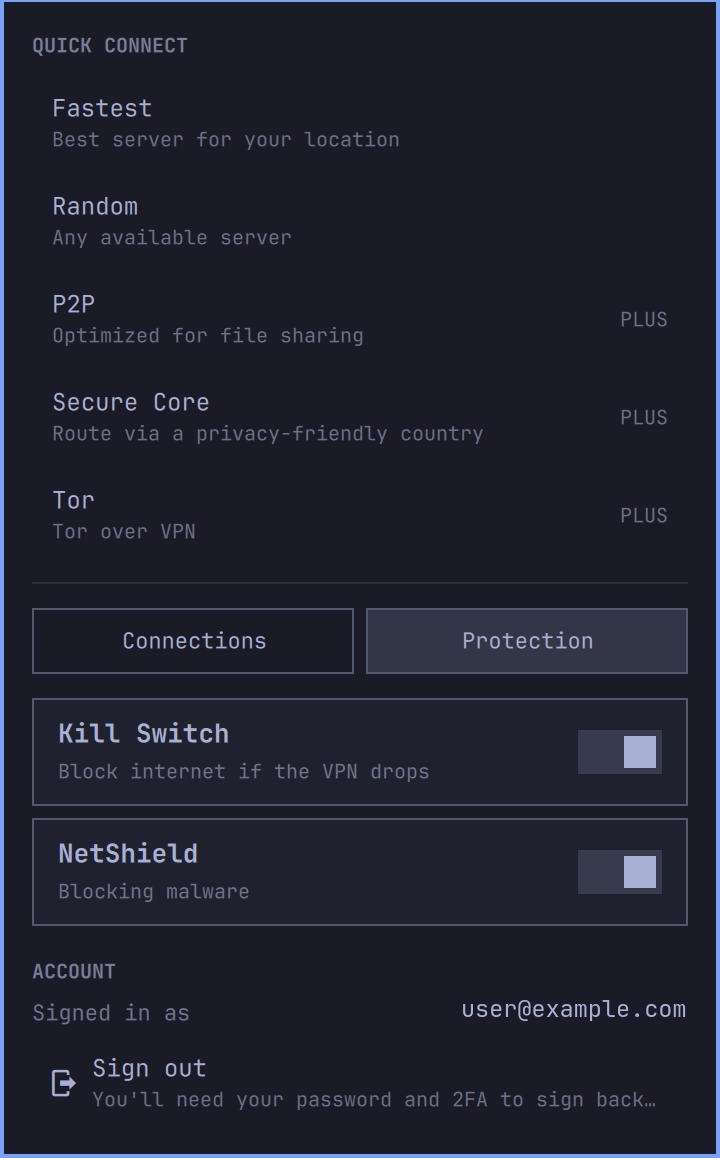
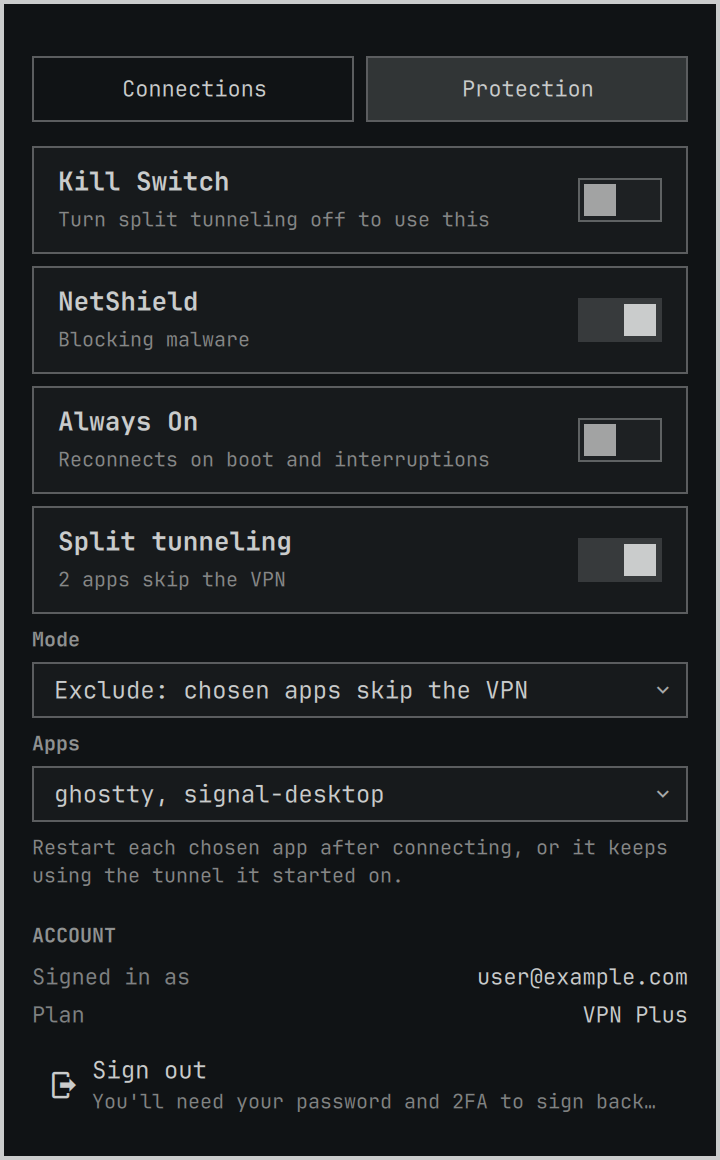
README: a contents section and a chapter on how the protections work
The top of the file is untouched. Below it:

- A Contents section after the pitch.
- "How to use it" keeps the tour of the panel, minus the Protection
  write-up that had grown into a wall of bullets, and the keyboard help
  is now one table in one place instead of two paragraphs.
- New chapter, "How the protections work": who owns each switch and
  where it is saved, one section per switch, why the Kill Switch and
  split tunneling can't both be on and what the panel does about it,
  what changing the Kill Switch while connected actually does, and a
  short "which setup do I want" table.
- Stale text gone: "settings still to come (split tunneling)", "saved
  profiles when they land".
- docs/protection.png retaken with all four switches, the Mode and Apps
  rows and the caption; docs/kill-switch-dialog.png is new. Both from
  the test harness, so the account shown is user@example.com.

diff --git a/README.md b/README.md
@@ -42,6 +42,20 @@ into the CLI's own prompt, and Proton's client owns the session from there.
 
 <img src="docs/panel.png" width="360" alt="The OmaProton VPN panel: world map, connection details, live traffic, quick connect">
 
+## Contents
+
+- [New to Proton?](#new-to-proton)
+- [What you need](#what-you-need)
+- [Install](#install), [Update](#update), [Remove](#remove)
+- [How to use it](#how-to-use-it): the bar icon, the map, quick connect,
+  countries and cities, traffic, [keyboard](#keyboard)
+- [How the protections work](#how-the-protections-work): Kill Switch,
+  NetShield, Always On, split tunneling, and
+  [why the first and last can't both be on](#why-the-kill-switch-and-split-tunneling-cant-both-be-on)
+- [Settings](#settings)
+- [Security and privacy](#security-and-privacy)
+- [Notes](#notes), [Credits](#credits), [License](#license)
+
 ## New to Proton?
 
 You don't need to be a Proton customer to use this. Proton VPN has a **free
@@ -131,14 +145,10 @@ protected; dimmed means not.
 | Action | What it does |
 | --- | --- |
 | Left-click | Open the panel |
-| Right-click | Toggle, connect to the fastest server, or disconnect |
+| Right-click | Toggle: connect to the fastest server, or disconnect |
 | Middle-click | Force a status refresh |
 
-The panel is keyboard-driven too: arrow keys move through every section, `Enter`
-activates, `→` opens a country's city list, `←` backs out, `Esc` backs out of a
-city list or closes the panel. `/` jumps to the country filter. There are no
-single-letter shortcuts on purpose, a stray keystroke should never change your
-connection.
+The panel is fully keyboard-driven too; see [Keyboard](#keyboard).
 
 ### The map
 
@@ -183,115 +193,13 @@ Rows marked **PLUS** need a paid plan. On a free plan they fail with a clear
 ### Two tabs: Connections and Protection
 
 Under Quick Connect sit two tabs, in the same pill style as Omarchy's network
-panel. **Connections** holds everywhere you can go, recent places, the
-country and city lists, and saved profiles when they land. **Protection**
-holds everything about *how* you're protected, the Kill Switch, NetShield,
-Always On, and the settings still to come (split tunneling). The tab you
-pick stays until you close the panel.
+panel. **Connections** holds everywhere you can go: recent places, and the
+country and city lists. **Protection** holds everything about *how* you're
+protected: the Kill Switch, NetShield, Always On, split tunneling, and your
+account. The tab you pick stays until you close the panel.
 
-### Protection
-
-<img src="docs/protection.png" width="360" alt="The Protection tab: Kill Switch and NetShield switches, account, and sign out">
-
-Two switches saved to Proton's own settings:
-
-- **Kill Switch**: if the VPN drops, your internet is blocked until it's back.
-  Without this, a dropped tunnel silently falls back to your plain connection
-  and all you'd see is the icon dimming. The CLI ships with it **off**: which is
-  why the panel offers to turn it on the first time you sign in.
-
-  The Kill Switch and split tunneling can't both be on, because Proton ignores
-  split tunneling whenever the Kill Switch is on. Each row locks the other and
-  says which one to turn off, so you never have to know the rule.
-
-  Proton won't change this setting while a tunnel is up, so if you flip it
-  while connected the widget drops the tunnel, makes the change, and puts you
-  back on the same server. It asks first, in a dialog, because your traffic
-  isn't protected until the tunnel is back and that's your call to make, not
-  something to be told about afterwards. Cancel is preselected. Disconnected
-  there's nothing to interrupt, so it just changes. That takes as long as a normal connect, and the row
-  says "Turning on…" the whole way through. Always On is held off in the
-  middle, otherwise it would reconnect into the gap and the change would fail.
-  If anything goes wrong, you end up back on the VPN with the setting
-  unchanged, never stranded off it.
-- **NetShield**: blocks malware, ads, and trackers at the DNS level. On a free
-  plan Proton only allows malware blocking; the widget steps down to that
-  automatically.
-
-- **Split tunneling**: pick apps that skip the VPN, or flip it round so only
-  the apps you pick use it. See below, it has more rules attached than the
-  other two.
-
-And one saved by the widget itself, because the CLI has no setting for it:
-
-- **Always On**: whenever Proton isn't connected, connect it. That covers
-  booting, logging in, joining a café Wi-Fi, and a tunnel that drops on its own,
-  they're all just moments when you aren't protected and should be. It's
-  checked on the same few-second poll that drives the bar icon, so there's
-  nothing extra running. **Off by default.**
-
-  It reconnects to the top of your **Recent** list, which is the server you
-  were last actually on. If that server is full or gone, the attempt fails
-  once and the next one falls back to Fastest, so it can't get stuck retrying
-  a server that isn't coming back. With nothing in Recent yet it just uses
-  Fastest. Never a Plus-only target, so a free account isn't sent somewhere
-  it can't go. A connect that fails waits 30 seconds before trying again, so
-  a dead network, or a café portal you haven't signed into yet, doesn't get
-  hammered.
-
-  Two things worth knowing. It never fires while you're signed out, and it
-  will never open a sign-in terminal on its own. And while it's on, the
-  **Disconnect** button won't keep you disconnected, you'll be reconnected
-  within a few seconds; switch Always On off if you want to stay off.
-
-#### Split tunneling
-
-Turn it on and two more rows appear: **Mode**, and the **Apps** list.
-
-- **Exclude** (the default) sends the apps you pick out through your normal
-  connection, everything else stays on the VPN. Good for a bank that blocks
-  VPN IPs, or a device on your own network.
-- **Include** is the mirror image: only the apps you pick go through the VPN
-  and everything else uses your normal connection.
-
-The Apps list is every desktop app on the machine that the widget can point at
-a real program on disk. Search it, tick what you want, untick to remove.
-
-Four things to know, all of them Proton's behaviour rather than the widget's:
-
-- **It needs the Kill Switch off.** Proton skips split tunneling entirely while
-  the Kill Switch is on, so the row says so and stays locked until you turn the
-  Kill Switch off. The switch shows off while that's true, because nothing is
-  being split, and it stays off when you turn the Kill Switch back off. Your
-  app lists are kept either way, so turning it back on is one click. Neither
-  switch ever turns itself on. Changing the Kill Switch needs you disconnected first, so
-  the order is: disconnect, Kill Switch off, set up split tunneling, connect.
-  It's a real trade, a tunnel with holes in it can't also promise nothing
-  leaks when it drops.
-- **Restart your apps after connecting.** Proton tags an app's connections as
-  they're made, so anything already running when the tunnel came up keeps using
-  it until you restart it. Proton's own app tells you the same thing.
-- **Apps only, no IP ranges.** Proton's settings file has a field for IP ranges
-  but nothing on Linux reads it yet, so the widget doesn't offer one rather
-  than write a setting that does nothing.
-- **IPv4 only.** Proton tags IPv4 connections and nothing else, so an app you
-  excluded still uses the VPN for anything it sends over IPv6, and in Include
-  mode an app you left out still uses the VPN over IPv6. If you need an
-  exclusion to be absolute, `protonvpn config set ipv6 off` stops the tunnel
-  carrying IPv6 at all and apps fall back to IPv4, where it works. When you
-  test this, check with `curl -4`, otherwise you may be looking at a path
-  split tunneling never touches.
-- **Flatpaks and Snaps aren't listed.** They all launch through one shared
-  runner, so picking one would pick all of them. Same for anything that
-  launches through a terminal chooser or a web-app handler.
-
-Below the switches, **Account** shows who's signed in and the plan, with a
-**Sign out** row, it asks for a second click within five seconds, because
-signing out also disconnects.
-
-If the VPN does drop unexpectedly, you also get a desktop notification,
-"Proton VPN disconnected, You're no longer protected." Turn notifications off
-in the widget's settings if you'd rather not.
+The Protection tab has enough rules behind it to deserve its own chapter:
+[How the protections work](#how-the-protections-work).
 
 ### Connections → Recent
 
@@ -316,13 +224,13 @@ Inside a country:
 
 - **"Fastest in &lt;country&gt;"** is always the first row. It lets Proton choose
   any server in that country, which is the same as `protonvpn connect --country`.
-- **Every row below is one city**: showing the best server there right now with
-  its current load and any tags, **Free** for free-plan servers, plus P2P, Tor,
+- **Every row below is one city**, showing the best server there right now with
+  its current load and any tags: **Free** for free-plan servers, plus P2P, Tor,
   or Streaming. Cities are ordered by Proton's own speed score, best first.
 
 The widget shows one row per city rather than one per server on purpose. Large
 countries have thousands of servers and the nearest city would monopolise the
-whole list, you'd scroll past hundreds of near-identical entries before seeing
+whole list; you'd scroll past hundreds of near-identical entries before seeing
 a second city. When you pick a city, it connects to that city's best server; if
 you want a *specific* server, use the CLI: `protonvpn connect US-NY#12`.
 
@@ -350,8 +258,8 @@ moment behind.
 While you're connected, under the details: download and upload rates, a
 60-second sparkline, and the session's totals and uptime. Download is the
 filled area with a solid line; upload is the dashed line. Both are drawn in
-your theme's foreground, one ink, like the rest of the panel, and told
-apart by shape, not colour, so they read the same on every theme and for
+your theme's foreground, one ink, like the rest of the panel, and told apart
+by shape, not colour, so they read the same on every theme and for
 colour-blind eyes. Hover the sparkline to read the values at any second.
 
 The numbers come from the kernel's own counters for the tunnel interface
@@ -362,21 +270,200 @@ when you're not looking.
 ### While a connect is in progress
 
 `protonvpn connect` blocks for anywhere from a few seconds to a minute. The
-widget doesn't freeze, it shows "Connecting to …" and optimistically flips the
+widget doesn't freeze: it shows "Connecting to …" and optimistically flips the
 switch on. If the connect fails, the switch drops back and the reason is shown
 under the header for a few seconds.
 
 ### Keyboard
 
-Everything in the panel is reachable with the keyboard. `hjkl` or the arrow
-keys move, Enter activates, Escape backs out one level and then closes, and `/`
-jumps to the country filter. Enter on **Mode** or **Apps** opens that picker,
-which then owns the keyboard: inside the Apps list typing filters it, arrows
-move, Enter ticks, and Escape closes it again.
+Everything in the panel is reachable without a mouse.
+
+| Key | What it does |
+| --- | --- |
+| `↑` `↓` or `k` `j` | Move through every section, top to bottom |
+| `→` or `l` | Open the selected country's city list |
+| `←` or `h` | Back out to the country list |
+| `Enter` | Activate: connect, flip a switch, open a picker |
+| `Esc` | Back out one level, then close the panel |
+| `/` | Jump to the country filter |
+
+There are no single-letter shortcuts on purpose: the panel takes keyboard
+focus when it opens, and a stray keystroke should never change your
+connection.
+
+`Enter` on **Mode** or **Apps** opens that picker, which then owns the
+keyboard: inside the Apps list, typing filters it, arrows move, `Enter` ticks,
+and `Esc` closes it again. The Kill Switch dialog works the same way: arrows
+move between Cancel and confirm, `Enter` chooses, `Esc` cancels.
 
 Hover only moves the selection when you actually move the pointer. Scrolling
 with the keyboard slides rows under a stationary mouse, and without that rule
-the row that lands under the pointer drags the selection back to itself.
+the row that lands under the pointer would drag the selection back to itself.
+
+## How the protections work
+
+<img src="docs/protection.png" width="360" alt="The Protection tab: Kill Switch, NetShield, Always On and split tunneling switches, the Mode and Apps pickers, account, and sign out">
+
+Four switches, three owners. Knowing who owns each one explains most of how
+they behave:
+
+| Switch | Saved by | Where | Needs |
+| --- | --- | --- | --- |
+| **Kill Switch** | Proton CLI (`protonvpn config set`) | Proton's settings | Tunnel down to change |
+| **NetShield** | Proton CLI (`protonvpn config set`) | Proton's settings | Plus plan for ads and trackers |
+| **Always On** | This widget | `~/.local/state/omarchy-protonvpn/state.json` | Nothing |
+| **Split tunneling** | This widget, editing Proton's file | `~/.config/Proton/VPN/settings.json` | Kill Switch off |
+
+### Kill Switch
+
+If the VPN drops, your internet is blocked until it's back. Without it, a
+dropped tunnel silently falls back to your plain connection and all you'd see
+is the icon dimming. The CLI ships with it **off**, which is why the panel
+offers to turn it on the first time you sign in. Say yes; it's the setting
+that makes the others matter.
+
+Proton implements it in NetworkManager, below any app, so it holds even if the
+Proton client itself crashes. It also keeps an IPv6 leak guard active
+independently of the tunnel.
+
+### NetShield
+
+Blocks malware, ads, and trackers at the DNS level, on Proton's side. Three
+levels: off, malware only, or malware plus ads and trackers. The switch asks
+for the full level; on a free plan Proton only allows malware blocking, and
+the widget steps down to that automatically instead of failing.
+
+### Always On
+
+Whenever Proton isn't connected, connect it. That covers booting, logging in,
+joining a café Wi-Fi, and a tunnel that drops on its own: they're all just
+moments when you aren't protected and should be. It's checked on the same
+few-second poll that drives the bar icon, so there's nothing extra running.
+**Off by default.**
+
+It reconnects to the top of your **Recent** list, which is the server you were
+last actually on. If that server is full or gone, the attempt fails once and
+the next one falls back to Fastest, so it can't get stuck retrying a server
+that isn't coming back. With nothing in Recent yet it just uses Fastest. A
+connect that fails waits 30 seconds before trying again, so a dead network, or
+a café portal you haven't signed into yet, doesn't get hammered.
+
+Two things worth knowing:
+
+- It never fires while you're signed out, and it will never open a sign-in
+  terminal on its own.
+- While it's on, **Disconnect** won't keep you disconnected; you'll be
+  reconnected within a few seconds. Switch Always On off if you want to stay
+  off.
+
+Always On and the Kill Switch are different answers to the same question.
+The Kill Switch stops traffic leaking *while* the tunnel is down; Always On
+makes the tunnel come *back*. Together they close the gap from both sides:
+nothing leaks, and you're not stuck offline.
+
+### Split tunneling
+
+Turn it on and two more rows appear: **Mode**, and the **Apps** list.
+
+- **Exclude** (the default) sends the apps you pick out through your normal
+  connection; everything else stays on the VPN. Good for a bank that blocks
+  VPN IPs, or a device on your own network.
+- **Include** is the mirror image: only the apps you pick go through the VPN,
+  and everything else uses your normal connection.
+
+The Apps list is every desktop app on the machine that the widget can point at
+a real program on disk. Search it, tick what you want, untick to remove. Each
+mode remembers its own list, so switching modes doesn't lose either one.
+
+How Proton does it, so the caveats make sense: while split tunneling is
+active, Proton's system service watches every program you start and tags the
+connections of the ones you picked (and anything they launch) so the kernel
+routes them around the tunnel, or through it in Include mode. Which is why:
+
+- **Restart your apps after connecting.** Connections are tagged as they're
+  made, so anything already running when the tunnel came up keeps using it
+  until you restart it. Proton's own app tells you the same thing.
+- **Apps only, no IP ranges.** Proton's settings file has a field for IP ranges
+  but nothing on Linux reads it yet, so the widget doesn't offer one rather
+  than write a setting that does nothing.
+- **IPv4 only.** Proton tags IPv4 connections and nothing else, so an app you
+  excluded still uses the VPN for anything it sends over IPv6, and in Include
+  mode an app you left out still uses the VPN over IPv6. If you need an
+  exclusion to be absolute, `protonvpn config set ipv6 off` stops the tunnel
+  carrying IPv6 at all and apps fall back to IPv4, where it works. When you
+  test this, check with `curl -4`, otherwise you may be looking at a path
+  split tunneling never touches.
+- **Flatpaks and Snaps aren't listed.** They all launch through one shared
+  runner, so picking one would pick all of them. Same for anything that
+  launches through a terminal chooser or a web-app handler.
+
+### Why the Kill Switch and split tunneling can't both be on
+
+Because Proton ignores split tunneling whenever the Kill Switch is on. That's
+not a limitation the widget could hide; it's the rule Proton's own service
+follows, and it makes sense once you see the two as a trade:
+
+- The **Kill Switch** promises that if the tunnel drops, *nothing* leaks.
+- **Split tunneling** deliberately punches holes in the tunnel for the apps you
+  chose.
+
+A tunnel with holes in it can't also promise nothing leaks, so Proton picks
+the stricter one and skips the other. What the widget does with that:
+
+- Each row **locks the other** and says which one to turn off. With the Kill
+  Switch on, the Split tunneling row reads "Turn the Kill Switch off to use
+  this". With split tunneling on, the Kill Switch row reads "Turn split
+  tunneling off to use this". You never have to know the rule to get past it.
+- The switches **tell the truth**. If the Kill Switch is on, the Split
+  tunneling switch shows *off*, because nothing is being split, whatever the
+  setting says underneath. It stays off when you turn the Kill Switch back
+  off, and your app lists are kept, so bringing it back is one click. Neither
+  switch ever turns itself on.
+- So the order, if you want split tunneling, is: **Kill Switch off, then split
+  tunneling on**. And when you're done: **split tunneling off, then Kill
+  Switch back on**. The panel walks you through both.
+
+### Changing the Kill Switch while connected
+
+<img src="docs/kill-switch-dialog.png" width="360" alt="The confirmation dialog: turning the Kill Switch off needs the tunnel down, with Cancel preselected">
+
+Proton refuses to change the Kill Switch while a tunnel is up, so a switch you
+could only use while disconnected wouldn't be much of a switch. If you flip it
+while connected, the widget does the whole thing for you: drops the tunnel,
+makes the change, and puts you back on the same server.
+
+That gap is the one moment your traffic isn't protected, so the widget **asks
+first**, in a dialog, with Cancel preselected; an accidental `Enter` does
+nothing. Disconnected, there's nothing to interrupt, so the change just
+happens. The row says "Turning on…" or "Turning off…" the whole way through,
+and Always On is held off in the middle, otherwise it would reconnect into the
+gap and the change would fail. If anything goes wrong, you end up back on the
+VPN with the setting unchanged, never stranded off it.
+
+### Which setup do I want?
+
+| You want | Kill Switch | Split tunneling | Always On |
+| --- | --- | --- | --- |
+| Everything private, always. The default recommendation. | On | Off | On |
+| Everything private, except one app that refuses to work over a VPN | Off | Exclude that app | On |
+| Only one app private (a torrent client, a browser for one site) | Off | Include that app | Your call |
+| Nothing automatic; I connect by hand | Off | Off | Off |
+
+Note the second and third rows have the Kill Switch off, because they have to.
+If that one app is a bank that blocks VPN IPs, consider whether a second
+browser profile without the VPN is a better fit than a hole in the tunnel.
+
+### Account and sign out
+
+Below the switches, **Account** shows who's signed in and the plan, with a
+**Sign out** row. It asks for a second click within five seconds, because
+signing out also disconnects.
+
+### Notifications
+
+If the VPN drops unexpectedly you get a desktop notification, "Proton VPN
+disconnected, You're no longer protected." Connecting shows "Protected" with
+the server. Turn both off in the widget's settings if you'd rather not.
 
 ## Settings
 
